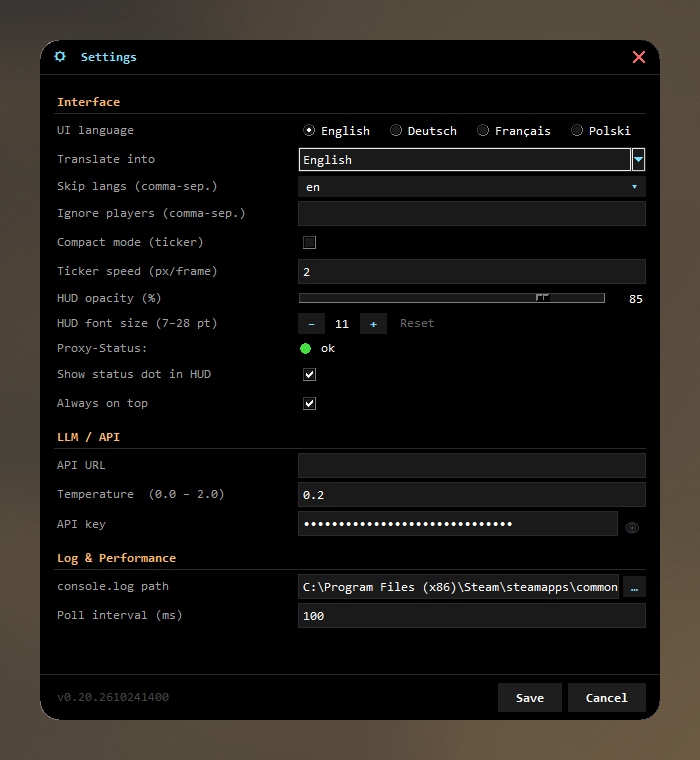
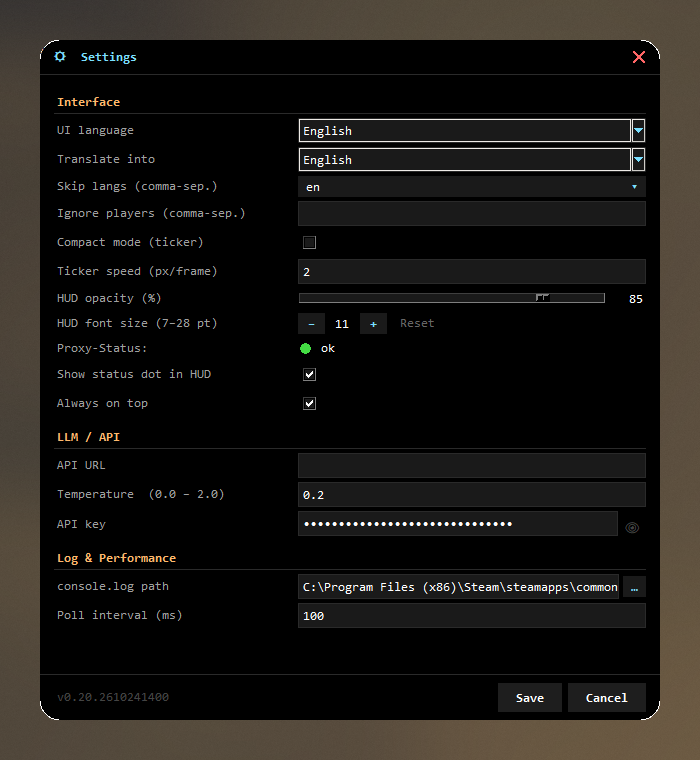
fix(settings): make the UI language a dropdown so Русский isn't cut off
Five radio buttons no longer fit beside the label column, so the last one (Русский) was clipped at the dialog edge. The UI language is now a read-only dropdown styled like 'Translate into'; the live rebuild is deferred on the parent window, since the settings window it would otherwise be scheduled on is destroyed by the rebuild.

Changed region(s): [[0.42, 0.1513, 0.93, 0.2118]]

diff --git a/app/settings_ui.py b/app/settings_ui.py
@@ -171,15 +171,29 @@ def open_settings(parent_root, cfg: dict, config_path: str, on_save=None, base_d
         row.pack(fill="x", pady=(4, 0))
         tk.Label(row, text=label, fg=FG_LABEL, bg=BG,
                  font=FONT_SMALL, anchor="w", width=34).pack(side="left")
+        # A dropdown rather than radio buttons: five languages no longer fit
+        # in one row beside the label column (the last one was cut off).
+        langs = [("en", "English"), ("de", "Deutsch"), ("fr", "Français"),
+                 ("pl", "Polski"), ("ru", "Русский")]
+        names = dict(langs)
+        codes = {lbl: code for code, lbl in langs}
         var = tk.StringVar(value=cfg.get(key, "en"))
         entries[key] = var
-        for code, lbl in [("en", "English"), ("de", "Deutsch"), ("fr", "Français"),
-                          ("pl", "Polski"), ("ru", "Русский")]:
-            tk.Radiobutton(row, text=lbl, variable=var, value=code,
-                           command=lambda c=code: _on_lang_change(c),
-                           bg=BG, fg=FG_VALUE, selectcolor="#1a1a1a",
-                           activebackground=BG, activeforeground=FG_VALUE,
-                           font=FONT).pack(side="left", padx=(0, 10))
+        _setup_combobox_style()
+        shown = tk.StringVar(value=names.get(var.get(), "English"))
+        box = ttk.Combobox(row, textvariable=shown, values=[lbl for _, lbl in langs],
+                           state="readonly", style="Dark.TCombobox", font=FONT, width=28)
+        box.pack(side="left", fill="x", expand=True)
+
+        def _selected(_event):
+            code = codes[shown.get()]
+            if code != var.get():
+                var.set(code)
+                # Deferred: the rebuild destroys this window, which must not
+                # happen inside the combobox's own event handler. Scheduled on
+                # the parent — a callback owned by `win` would outlive it.
+                parent_root.after_idle(lambda: _on_lang_change(code))
+        box.bind("<<ComboboxSelected>>", _selected)
 
     _TARGET_LANG_OPTIONS = [
         "English", "German", "French", "Spanish", "Portuguese",

diff --git a/CLAUDE.md b/CLAUDE.md
@@ -54,7 +54,7 @@ console.log  →  file_follow.py  →  tailer.py  →  llm.py  →  hud.py
 - `app/parser.py` — Exports `CHAT_ENTRY_RE` (regex), `iter_chat_entries(buffer)` (generator), and `trim_before_last_ts(buffer)` (drops buffer content before the last timestamp; used by `tailer.py` to keep the scan buffer small). Matches CS2 chat lines for all supported game languages via an explicit scope alternation (`_SCOPE`): covers ALL-chat variants (`ALL`, `ALLE`, `TOUS`, `TODOS`, `ВСЕ`, `WSZYSCY`, `TUTTI`, `ТÜМÜ`, Cyrillic/CJK variants, etc.) and team scopes (`CT`, `T`, `AT`, `КТ`, `Т`). Accepts both ASCII colon `:` and full-width colon `：` as the name/message separator. `[DEAD]`/`[SPEC]` suffixes after the player name are captured as part of the name field. Uses `re.DOTALL`. Yields `(dt, scope, name, msg, endpos)` tuples. A match that ends at the very end of a buffer **not** terminated by a newline is withheld: the regex's `\Z` alternative matches unconditionally there, so a line still being written would otherwise be reported as a finished entry — translating a truncated message and losing the remainder. The partial stays in the caller's buffer and is yielded once the rest arrives.
 - `app/file_follow.py` — Tail implementation that handles log rotation and truncation by reopening the file.
 - `app/hud.py` — Transparent, always-on-top Tkinter window that reads from a `Queue` at ~30 fps (33 ms poll via `root.after`) and renders chat lines. Two layout modes: **normal** (`_normal_frame`: topbar + text widget + resize handle) and **compact** (`_compact_frame`: scrolling ticker canvas + buttons). The topbar contains a **status dot** (14×14 canvas, top-left), then ⊟ compact-toggle, ⛭ settings, − minimize, and ✕ close buttons (all `Consolas 12 bold`, `padx=4`); compact mode has the same minimize button. `_minimize` uses Win32 `ShowWindow(SW_MINIMIZE)` because Tk's `iconify()` refuses override-redirect windows; the taskbar button (from `_show_in_taskbar`) restores the HUD. The status dot is present in both normal and compact topbars; hovering shows a tooltip (`_tooltip_show`/`_tooltip_hide` via `Toplevel`). `set_status_color(color, tooltip)` is thread-safe: it puts a `status` message on the HUD queue so the update is applied by `_apply_status` on the Tk thread (Tk must never be touched from the status-checker thread). `set_status_visible(enabled)` applies directly and is Tk-thread-only. `set_status_visible` sets the user preference flag; `_update_dot_visibility()` shows the dot when enabled OR when color is `"yellow"`/`"red"` (force-shown regardless of toggle). Status colors: `green=#44dd44`, `yellow=#ffcc00`, `red=#ff4444`, `blue=#4488ff`, gray=`#555555` (initial). Compact mode shows a single scrolling line (delta-time animation at ~60 fps via `_ticker_tick`; the loop only runs while ticker items exist and the HUD is visible — `_ticker_start()` restarts it from `_ticker_add` and F1); speed is configurable via `set_ticker_speed(px)`. Mode switch is purely visual — content is always written to the text widget. `Ctrl+MouseWheel` zooms font size (7–28pt); persisted via `on_font_change`, debounced by 500 ms. Geometry is persisted via `on_geometry_change` only when it actually changed (`_save_geometry`), because `<ButtonRelease-1>` fires for every click on any child widget. Alpha is set from `cfg["hud_alpha"]`; F2 cycles through 5 steps (1.0→0.8→0.6→0.4→0.2) and calls `on_alpha_change`. `_show_in_taskbar` sets `WS_EX_APPWINDOW` + withdraw/deiconify cycle so the window appears in the taskbar. Icon loaded from `app/icon.ico` (or `icon.png` via PIL). Completed translations arrive as `structured` queue messages and are rendered via `_append_struct`. `_poll` handles at most 50 queue items per tick (`_MAX_ITEMS_PER_POLL`), sets the text state and scrolls once per tick, then trims the widget to 1800 lines once it exceeds 2000 (counted from the widget itself, since payloads can contain newlines). `_append_line`/`_append_struct` expect the caller to have set `state=normal`. `_poll` and `_ticker_tick` re-arm their `root.after` timer in a `finally` block and log-and-drop a failing item, so a single rendering error cannot kill the callback chain and silently freeze the HUD.
-- `app/settings_ui.py` — `open_settings(parent_root, cfg, config_path, on_save, base_dir, alpha_var, status_color, status_tooltip)` opens a borderless 620×680 Tkinter `Toplevel` settings dialog. `base_dir` is used for live UI language switching. `alpha_var` is a shared `tk.IntVar` (20–100) passed from `main.py` so F2 key presses update the opacity slider live; the trace is removed on window destroy. Interface section includes compact mode checkbox, ticker speed entry, HUD opacity slider (`field_slider`), a **Proxy-Status row** (colored dot + status text, hover tooltip using `status_color`/`status_tooltip` passed at open-time), and a `show_status_dot` checkbox. `target_lang` uses a styled combobox. `no_translate_langs` uses a checkbox-dropdown popup. The API key field is masked with `•`; an empty key field means "keep the stored key" — the key cannot be cleared via the UI. Widget values are gathered by a single `_collect()` helper shared by Save and the live UI-language switch (which rebuilds the dialog with collected values as the new `cfg`). Saves back via `on_save`; does not write `config.json` itself.
+- `app/settings_ui.py` — `open_settings(parent_root, cfg, config_path, on_save, base_dir, alpha_var, status_color, status_tooltip)` opens a borderless 620×680 Tkinter `Toplevel` settings dialog. `base_dir` is used for live UI language switching. `alpha_var` is a shared `tk.IntVar` (20–100) passed from `main.py` so F2 key presses update the opacity slider live; the trace is removed on window destroy. Interface section includes compact mode checkbox, ticker speed entry, HUD opacity slider (`field_slider`), a **Proxy-Status row** (colored dot + status text, hover tooltip using `status_color`/`status_tooltip` passed at open-time), and a `show_status_dot` checkbox. `target_lang` uses a styled combobox; `lang` (UI language) uses a read-only one showing native names — selecting a language rebuilds the dialog, deferred via `parent_root.after_idle` (not `win`, which the rebuild destroys). `no_translate_langs` uses a checkbox-dropdown popup. The API key field is masked with `•`; an empty key field means "keep the stored key" — the key cannot be cleared via the UI. Widget values are gathered by a single `_collect()` helper shared by Save and the live UI-language switch (which rebuilds the dialog with collected values as the new `cfg`). Saves back via `on_save`; does not write `config.json` itself.
 - `app/config.py` — `load_config` / `save_config` around `config.json`. `load_config(path, write_back=True)` writes migrations back; the tailer passes `write_back=False`. Merges `DEFAULTS` for backward compatibility. `save_config` is **atomic**: it writes a `.config-*.tmp` in the same directory, `fsync`s, then `os.replace`s it into place under `_SAVE_LOCK`, so the tailer's 5-second reload can never read a half-written file (on Windows `os.replace` is retried briefly — it fails while a reader holds the destination open). `load_config` retries a parse failure a few times (absorbing any torn read), and a file that stays unreadable is moved to `config.json.bak` and logged as an ERROR rather than silently overwritten with defaults. Exports `DEFAULT_API_URL` (the built-in proxy endpoint used when `gpt_api` is empty) and `DEFAULT_MODEL` (`gpt-5-nano`). Supports an `open_ai_api_key_file` pointer as an alternative to embedding the key (config only, not exposed in settings UI). `DEFAULTS` contains legacy keys `llm_api` and `llm_model` (kept for backward compatibility with older config files; not used at runtime).
 - `app/status_checker.py` — Polls `GET https://crimson-dog-44043.zap.cloud/status` every 5 minutes (3 s initial delay) in a daemon thread. `_check(key)` returns `(color, tooltip_text)`: `"red"` if unreachable, no `ct_key` in response (no key configured), or key is invalid/expired; `"yellow"` if key is valid but `openai.reachable`/`key_set` is false or `status != "ok"`; `"green"` otherwise. If `open_ai_api_key` starts with `ct-` it is sent as `Authorization: Bearer` so the server validates it and returns a `ct_key` block. Tooltip includes status, key validity + days remaining, OpenAI reachability, and formatted uptime. Does **not** use `http_session.SESSION` (no retries — fail fast for a status probe). `start(on_status_change, get_key, initial_delay)` launches the thread; `get_key` is a callable returning the current key string; callback receives `(color, tooltip)`.
 - `app/http_session.py` — Module-level `SESSION`: a shared `requests.Session` with retry/backoff (2 retries, `backoff_factor=0.4`, retries on 429/5xx, `respect_retry_after_header=False` — urllib3 would otherwise sleep for an uncapped server-requested `Retry-After`). Deliberately short: this serves live chat translation, where a late answer is useless. Combined with `call_chatgpt`'s 10 s per-attempt timeout the worst case is ~31 s per message. Import and reuse this instead of creating new sessions.
